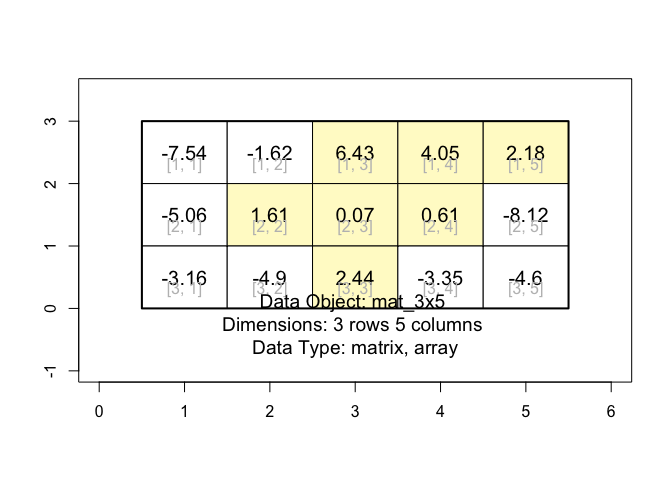
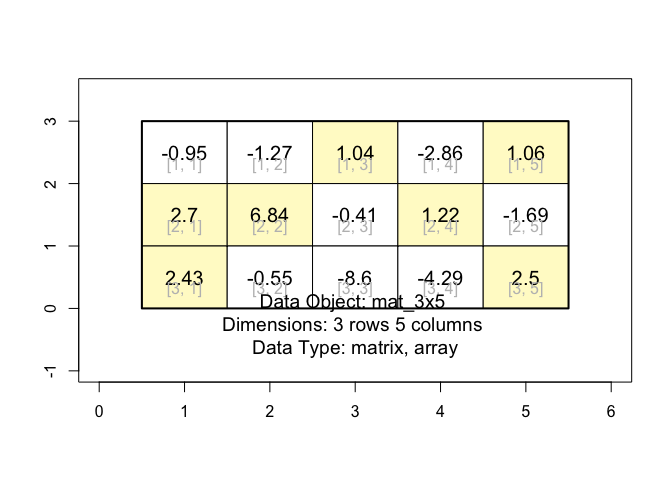
Re-render readme showing ggplot2

diff --git a/README.md b/README.md
@@ -28,7 +28,12 @@ This is a basic example which shows you how to solve a common problem:
 library(drawr)
 
 mat_3x5 = matrix(round(rnorm(15, 0, 4), 2), ncol = 5)
-visualize_matrix_data(mat_3x5, highlight_cells = mat_3x5 > 0) 
+
+# Graphic of matrix data structure using base R graphics
+visualize_matrix_data(mat_3x5, highlight_cells = mat_3x5 > 0)
+
+# Graphic of matrix data structure using ggplot2 
+visualize_matrix_data_ggplot(mat_3x5, highlight_cells = mat_3x5 > 0)
 ```
 
-<img src="man/figures/README-example-1.png" width="100%" />
+<img src="man/figures/README-example-1.png" width="100%" /><img src="man/figures/README-example-2.png" width="100%" />
